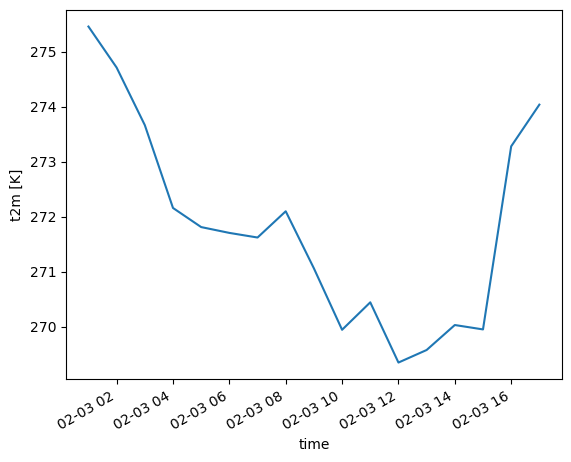
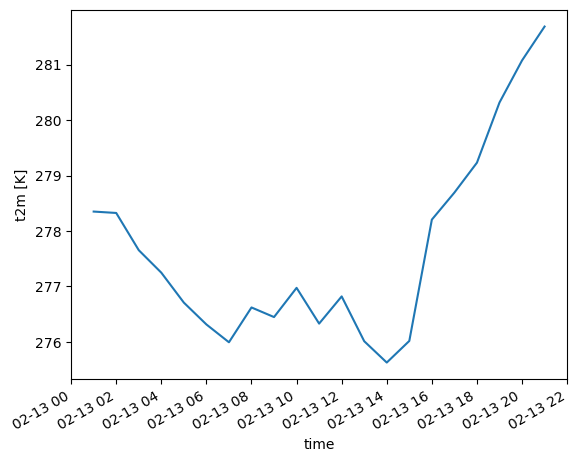
deploy: 009c17c1173d75e0b852d2303bde64c4333e6950

diff --git a/searchindex.js b/searchindex.js
@@ -1,1 +1,1 @@
-Search.setIndex({docnames:["README","notebooks/case_studies/ARG_Weather","notebooks/case_studies/HRRR","notebooks/foundations/kerchunk_basics","notebooks/foundations/kerchunk_multi_file"],envversion:{"sphinx.domains.c":2,"sphinx.domains.changeset":1,"sphinx.domains.citation":1,"sphinx.domains.cpp":5,"sphinx.domains.index":1,"sphinx.domains.javascript":2,"sphinx.domains.math":2,"sphinx.domains.python":3,"sphinx.domains.rst":2,"sphinx.domains.std":2,"sphinx.ext.intersphinx":1,sphinx:56},filenames:["README.md","notebooks/case_studies/ARG_Weather.ipynb","notebooks/case_studies/HRRR.ipynb","notebooks/foundations/kerchunk_basics.ipynb","notebooks/foundations/kerchunk_multi_file.ipynb"],objects:{},objnames:{},objtypes:{},terms:{"0":[1,2,4],"00":[1,2],"01":[1,2,3],"02":2,"03":2,"04":2,"05":2,"06":2,"09":2,"0x7f5dc459f0d0":2,"0x7f5dc45e6170":2,"0x7f6eecb27250":3,"1":[1,2,4],"10":[1,2],"100":[2,3],"11":2,"12":[1,2],"13":2,"13km":2,"14":2,"15":2,"16":[2,3],"17":2,"18":2,"2":[1,2],"20":2,"2022":1,"2023":1,"20230203":2,"2060":[3,4],"21":2,"24":2,"25":2,"26":[1,2,3],"27":2,"29":2,"3":2,"30":2,"300":[1,4],"31":[1,2],"32":2,"35":2,"37":2,"38":2,"3km":2,"4":2,"41":2,"42":2,"43":2,"44":2,"45":[1,2],"47":2,"49":2,"4km":1,"5":2,"500":[1,2],"51":2,"52":2,"53":2,"55":2,"56":2,"57":2,"59":2,"5kb":3,"6":2,"60":[3,4],"65":2,"7":2,"71":2,"72":1,"76":2,"8":2,"82":2,"83":2,"87":2,"88":2,"8mb":3,"9":2,"93":2,"94":2,"98":2,"byte":[0,3],"case":3,"class":4,"default":4,"do":[1,4],"final":4,"function":[1,4],"import":0,"meteorol\u00f3gico":1,"new":[0,4],"public":[3,4],"return":[1,2,4],"short":3,"true":[1,2,3,4],"while":3,As:3,For:[0,1],IS:4,If:[0,1],In:[0,1,3,4],One:2,The:[0,1,2,3,4],These:[0,3],To:[1,2],_:2,_messag:2,abl:0,about:3,abov:1,access:[0,1,2,3,4],across:[1,4],act:4,activ:0,ad:[0,2,4],add:0,addit:3,adopt:1,afilt:2,after:[0,4],agenc:1,ak:[3,4],alaska:[3,4],all:[0,1,2,4],allow:[0,2],along:[1,3,4],also:3,altern:[0,1,4],amount:1,an:[0,1,2,3,4],analysi:[0,1,2],ani:[3,4],anon:[1,2,3,4],anoth:2,anyon:4,anywher:3,api:3,append:[0,1,2,4],ar5:[3,4],ar:[0,1,2,3,4],archiv:[0,2,4],arco:[0,1,2],arg:1,arg_combin:1,argentina:1,argument:[2,3,4],assimil:2,atmospher:[1,2],avail:[0,2,4],avoid:3,aw:[1,2,3,4],axi:4,back:4,backend:0,backend_kwarg:[2,3,4],base:4,basic:[1,2,4],bdp:2,becaus:4,been:1,befor:1,being:[0,1],below:3,benefit:0,between:3,binari:2,block:[1,3,4],book:0,borrow:2,breakdown:1,broken:0,bucket:[3,4],bui:3,build:4,built:4,cach:3,call:4,can:[0,1,2,3],ccsm:[3,4],cd:0,cell:[0,1,2,3],center:1,chang:0,chapter:0,check:1,choos:4,chunk:[0,2,3],click:0,climat:[3,4],clone:0,cloud:[0,1,2,3,4],code:[0,1],cog:0,collect:[0,2,3,4],com:0,combin:0,combined_kerchunk:4,combined_refer:4,commun:1,complet:0,compress:[0,3],comput:0,concat_dim:[1,2,4],concaten:[1,4],concept:[1,2,3,4],conda:0,confus:1,connect:3,consider:1,consolid:[1,2,3,4],contain:2,content:[0,3],contribut:0,conu:2,convect:2,coordin:2,copi:[0,2,4],core:[1,2],corner:0,could:[0,1,2,3,4],countri:1,cover:[0,1,2,4],creat:[0,3],creator:0,credenti:3,current:0,dai:[2,4],daili:[1,3,4],dask:[0,1,4],data:[0,1,2,3],dataset:0,date:2,datetim:2,days_avail:2,de:1,def:[1,2,4],default_cache_typ:[1,3,4],default_fill_cach:[1,3,4],definit:3,demonstr:[0,3],describ:0,det:1,detail:[0,1,2,3,4],determinist:1,develop:0,dict:[1,2,3,4],dictionari:[1,3,4],dimens:[1,4],direct:1,directori:[0,1,4],disk:[1,3,4],dive:0,doc:[0,3],document:0,doe:2,doesn:4,don:3,download:3,downscal:3,ds:[1,2,3,4],dt:2,dump:[1,2,3,4],durant:0,each:[0,1,2,4],earth:1,easier:2,east:4,effici:[2,3],either:0,els:4,enabl:0,encod:[1,2,3,4],engin:[1,2,3,4],enhanc:2,ensur:[2,4],enter:0,enumer:2,env:0,environ:0,etc:1,even:[0,4],everi:2,ex:4,examin:[2,3],exampl:[0,1,2,3,4],execut:0,expect:4,explicit:4,extract:[0,3],f:[0,1,2,3,4],fals:[1,2,3,4],featur:[3,4],few:[3,4],fil:[1,4],file:0,file_pattern:1,file_url:2,filelist:[1,2,4],filenam:4,files_path:[1,4],filesystem:[1,2,3,4],filesytem:4,filter:2,first:[0,1,3,4],fit:0,fname:[1,4],fo:[1,2,3,4],follow:[0,1,3],form:2,format:[0,1,2,3],fortun:1,found:[1,3,4],foundat:1,from:[0,1,2,3],fs:[1,2,3,4],fs_read:[1,2,4],fs_write:[1,2,4],fsspec:[1,2],further:2,gen_json:2,gener:[0,1,2],generate_json_refer:[1,4],get:[0,2,4],get_mapp:[1,2,3,4],gist:2,git:0,github:0,give:3,given:4,glob:[1,2,4],good:[1,4],grab:1,grib2:0,grib:2,grid:2,gritti:0,h5chunk:[1,3,4],h5netcdf:1,h:2,ha:1,had:4,hagen:0,happen:0,happili:2,have:[0,3],hdf5:[0,2,3],hdf:[1,3,4],heavili:2,heightaboveground:2,help:3,here:[1,2,3],hour:1,hourli:[1,2],how:[0,1,2,3,4],howev:[2,4],hrrr_combin:2,http:0,huge:1,humid:1,i:2,icon:0,idea:0,identical_dim:[1,2,4],includ:0,indic:1,individu:[1,2,4],inf:3,infil:[1,4],inform:[0,2,3,4],initi:[1,2,4],inline_threshold:[1,2,3,4],input:3,inspir:0,instal:0,instead:[0,4],intak:[1,2],intend:[3,4],interact:0,interest:0,interp_level:4,interv:1,introduct:[1,2,3,4],io:[1,2,4],isel:[1,4],issu:0,iter:[1,4],json:[0,3],json_dir:2,jupyt:0,jupyterlab:0,just:4,keep:[3,4],kerchunk_bas:1,km:2,know:[0,1],kwarg:1,lab:[0,1],larg:3,later:[1,4],latest:2,latitud:2,launch:0,lead:1,learn:[1,2,3,4],legaci:[1,2],len:4,level:[1,2],librari:[0,3,4],like:0,line2d:2,line:[1,2],live:[0,2],ll:0,local:[0,1,2,3,4],longer:4,longitud:2,loop:4,lower:3,m:[1,2,4],magnitud:1,mai:[3,4],make:2,make_json_nam:2,mani:[0,1,2,3],map:[2,3,4],mapper:4,marsh:2,martin:0,match:4,materi:0,matplotlib:[2,3],maximum:1,memori:[1,3,4],messag:2,message_numb:2,metadata:3,meteorolog:2,method:[1,3,4],min:2,minut:[1,2,3,4],mode:[1,4],model:[1,2],moment:0,more:[0,1],most:1,mous:0,move:0,much:[0,1,3],multi:[0,1,2],multi_kerchunk:[1,2,4],multipl:[1,2,4],multizarrtozarr:[1,2,4],mzz:[1,2,4],nacion:1,name:[2,3,4],nation:2,navig:0,nc:[1,3,4],neccassari:2,necessari:4,need:[0,1,3,4],neighbor:1,netcdf3:0,netcdf4:[0,3],netcdf:2,newli:0,next:[1,2,3],nitti:0,note:[0,1,2,3],notebook:[1,2,3,4],now:[0,4],object:[2,4],off:4,one:[1,2],onli:[1,3,4],open:[0,1,2,3],open_dataset:[1,2,3,4],oper:1,optim:[0,1,2],option:[2,3],origin:[3,4],our:[2,3,4],out:[1,2,3],out_file_nam:2,outf:[1,4],output:[0,1,2,3],output_dir:[1,4],output_fil:[1,4],output_fnam:[1,2,4],over:[2,4],page:0,parallel:[0,2,4],parquet:0,pass:[1,2,3,4],path:2,pd:2,per:2,period:2,peter:2,piec:4,pleas:[0,1],plot:1,point:[1,3,4],possibl:0,pr:0,precipit:1,predict:1,prefix:[1,2,4],prepend:[1,4],present:0,press:0,previou:4,primari:[0,2],print:4,process:[0,3,4],product:3,program:0,progress:4,project:0,projectpythia:0,proven:3,provid:2,pythia:0,python:3,quadmesh:[2,3],radar:2,rang:[0,3],raphael:0,rapidli:0,rb:[1,4],rcp85:[3,4],read:[0,1,2,3,4],readi:[0,2],real:2,rechunk:4,recip:4,recommend:[1,2,4],record:[1,2,4],reduc:[1,2],refer:0,reference_json:2,refernec:4,region:1,registri:2,rel:1,releas:[0,2],remot:[1,2,3,4],remote_opt:[1,2,3,4],remote_protocol:[1,2,3,4],repeat:4,replac:4,repositori:0,repr:1,requir:[1,2,4],resolv:2,result:4,retriev:[2,4],reus:4,right:0,rocket:0,run:4,s3:[1,2,3,4],s3f:[1,3,4],s3filesystem:1,s:[1,3],save:[1,3,4],scan:3,scan_grib:2,schedul:0,scienc:1,scientif:1,se:[3,4],section:[1,2,3],see:[0,1,3],select:[0,1,2,4],separ:4,servicio:1,set:[0,3,4],share:[1,2,4],shift:0,ship:0,should:0,similar:[1,2,4],simpl:4,simplest:0,simpli:0,simplifi:4,sinc:4,singl:[0,2,4],single_file_kerchunk:3,singlehdf5tozarr:[1,3,4],size:3,skip_instance_cach:[1,2,3,4],slice:[1,3],smn:1,snow:4,so:[1,2,3,4],some:[0,1,4],sort:[1,2,4],sourc:0,south:4,southern:4,spatial:1,spec:[0,3],specif:[0,1,4],specifi:[3,4],specifii:1,speed:[0,1,2],speedup:4,split:[1,2,4],start:[0,4],step:[1,2,3,4],storag:[0,1],storage_opt:2,store:[3,4],str:[1,4],strategi:3,strictli:4,string:[1,4],strip:[1,4],summari:0,suppli:4,support:[0,1,2],sure:0,system:[2,3,4],t00z:2,t01z:2,t02z:2,t03z:2,t04z:2,t05z:2,t06z:2,t07z:2,t08z:2,t09z:2,t10z:2,t11z:2,t12z:2,t13z:2,t14z:2,t15z:2,t16z:2,t2:1,t2m:2,t:[3,4],tack:4,tell:1,temperatur:[1,2],temporari:4,tend:3,thei:[0,1,3,4],them:[0,2,4],thi:[0,1,2,3],those:[3,4],through:[0,1,3,4],thu:2,tiff:0,time:[2,3,4],tmax:3,too:3,top:0,tqdm:[1,2,4],translat:[1,2,3,4],tslb:1,tutori:[3,4],twice:1,two:0,type:4,typeoflevel:2,typic:[3,4],u:[1,4],ujson:[1,2,3,4],uncom:[1,2],underli:3,uniqu:2,univers:1,until:0,up:[0,1,2],updat:2,url:[1,3,4],us:[0,3],usag:3,utc:1,valid_tim:2,vari:4,variabl:[1,4],veri:3,via:[0,2],view:0,virtual:[0,3,4],visual:[1,2,4],w:2,wa:0,wai:[0,4],want:3,water:2,wb:[1,2,3,4],we:[0,1,2,3],weather:2,well:[0,1,3,4],were:[0,1,2,3,4],what:[0,1],when:[1,2,3],which:[0,1,2],whole:3,wildcard:[1,4],wind:1,within:[1,2],without:[3,4],work:[0,4],workflow:[0,4],worri:3,would:0,wrf:[1,3,4],wrfdetar_01h_20221231_00_072:1,wrfds_2060:3,wrfsfcf01:2,write:[0,3],written:3,x:1,xarrai:[0,1,2,3],xlat:4,xlong:4,xr:[1,2,3,4],y:1,yml:0,you:[0,1,3],zarr:[0,1,2,3,4]},titles:["Kerchunk Cookbook","Kerchunk and NetCDF/HDF5:  A Case Study using the Argentinian High Resolution Weather Forecast Dataset","Kerchunk and GRIB2:  A Case Study using NOAA\u2019s High-Resolution Rapid Refresh (HRRR) Dataset","Kerchunk Basics","Multi-File Datasets with Kerchunk"],titleterms:{"1":0,"2":0,"365":4,"7":4,"case":[0,1,2],"import":[1,2,3,4],"try":4,A:[1,2],As:4,If:4,To:4,about:[1,2],addit:0,argentinian:1,author:0,basic:3,befor:4,below:4,binder:0,can:4,cell:4,check:4,climt:4,code:4,combin:[1,2,4],contributor:0,cookbook:0,creat:[1,2,4],data:4,dataset:[1,2,3,4],defin:[3,4],downscal:4,everi:4,examin:[1,4],file:[1,2,3,4],file_pattern:4,forecast:1,foundat:0,from:4,fsspec:[3,4],futur:[0,4],gener:4,go:4,grib2:2,have:4,hdf5:1,here:4,high:[1,2],hrrr:2,index:[1,4],indici:2,input:[1,2,4],iter:2,json:[1,2,4],kerchunk:[0,1,2,3,4],kwarg:[3,4],like:4,list:[1,2,4],load:[1,2,3],look:4,machin:0,map:1,motiv:[0,1,2],multi:4,netcdf:[1,3,4],next:4,noaa:2,note:4,notebook:0,one:4,open:4,option:[1,4],output:4,overview:[1,2,3,4],own:0,pars:3,path:4,pattern:4,plot:[2,3,4],prerequisit:[1,2,3,4],quick:4,rapid:2,reduc:4,refer:[1,2,3,4],refresh:2,resolut:[1,2],run:0,s:[2,4],section:[0,4],seri:1,should:4,singl:[1,3],slice:[2,4],snippet:4,speed:4,speedup:1,structur:0,studi:[0,1,2],thi:4,through:2,time:1,uncom:4,up:4,us:[1,2,4],view:4,want:4,we:4,weather:1,week:4,which:4,wishlist:0,worth:4,write:[1,2,4],xarrai:4,year:4,you:4,your:0}})
+Search.setIndex({docnames:["README","notebooks/case_studies/ARG_Weather","notebooks/case_studies/HRRR","notebooks/foundations/kerchunk_basics","notebooks/foundations/kerchunk_multi_file"],envversion:{"sphinx.domains.c":2,"sphinx.domains.changeset":1,"sphinx.domains.citation":1,"sphinx.domains.cpp":5,"sphinx.domains.index":1,"sphinx.domains.javascript":2,"sphinx.domains.math":2,"sphinx.domains.python":3,"sphinx.domains.rst":2,"sphinx.domains.std":2,"sphinx.ext.intersphinx":1,sphinx:56},filenames:["README.md","notebooks/case_studies/ARG_Weather.ipynb","notebooks/case_studies/HRRR.ipynb","notebooks/foundations/kerchunk_basics.ipynb","notebooks/foundations/kerchunk_multi_file.ipynb"],objects:{},objnames:{},objtypes:{},terms:{"0":[1,2,4],"00":[1,2],"01":[1,2,3],"02":2,"03":2,"04":2,"05":2,"07":2,"09":2,"0x7f030676fee0":2,"0x7f030698fb80":2,"0x7f922b6af3a0":3,"1":[1,2,4],"10":[1,2],"100":[2,3],"11":2,"12":[1,2],"13":2,"13km":2,"14":2,"15":2,"16":[2,3],"17":2,"18":2,"19":2,"2":[1,2],"20":2,"2022":1,"2023":1,"20230213":2,"2060":[3,4],"21":2,"22":2,"23":2,"24":2,"25":2,"26":[1,2,3],"27":2,"29":2,"3":2,"300":[1,4],"31":[1,2],"33":2,"34":2,"36":2,"37":2,"38":2,"39":2,"3km":2,"4":2,"43":2,"44":2,"45":[1,2],"48":2,"4km":1,"5":2,"50":2,"500":[1,2],"51":2,"52":2,"55":2,"56":2,"57":2,"58":2,"5kb":3,"6":2,"60":[3,4],"61":2,"62":2,"66":2,"67":2,"69":2,"7":2,"71":2,"72":1,"76":2,"8":2,"81":2,"86":2,"8mb":3,"9":2,"90":2,"91":2,"92":2,"95":2,"96":2,"97":2,"byte":[0,3],"case":3,"class":4,"default":4,"do":[1,4],"final":4,"function":[1,2,4],"import":0,"meteorol\u00f3gico":1,"new":[0,4],"public":[3,4],"return":[1,2,4],"short":3,"true":[1,2,3,4],"while":3,As:3,For:[0,1],IS:4,If:[0,1],In:[0,1,3,4],One:2,The:[0,1,2,3,4],These:[0,3],To:[1,2],_:2,_messag:2,abl:0,about:3,abov:1,access:[0,1,2,3,4],across:[1,4],act:4,activ:0,ad:[0,2,4],add:0,addit:3,adopt:1,afilt:2,after:[0,4],agenc:1,ak:[3,4],alaska:[3,4],all:[0,1,2,4],allow:[0,2],along:[1,3,4],also:[2,3],altern:[0,1,4],although:1,amount:1,an:[0,1,2,3,4],analysi:[0,1,2],ani:[3,4],anon:[1,2,3,4],anoth:2,anyon:4,anywher:3,api:3,append:[0,1,2,4],ar5:[3,4],ar:[0,1,2,3,4],archiv:[0,2,4],arco:[0,1,2],arg:1,arg_combin:1,argentina:1,argument:[2,3,4],assimil:2,atmospher:[1,2],avail:[0,2,4],avoid:3,aw:[1,2,3,4],axi:4,back:4,backend:0,backend_kwarg:[2,3,4],base:4,basic:[1,2,4],bdp:2,becaus:4,been:1,befor:1,being:[0,1],below:3,benefit:0,between:3,binari:2,block:[1,3,4],book:0,borrow:2,breakdown:1,broken:0,bucket:[3,4],bui:3,build:4,built:4,cach:3,call:4,can:[0,1,2,3],ccsm:[3,4],cd:0,cell:[0,1,2,3],center:1,certain:2,chang:0,chapter:0,check:1,choos:4,chunk:[0,2,3],click:0,climat:[3,4],clone:0,cloud:[0,1,2,3,4],code:[0,1],cog:0,collect:[0,2,3,4],com:0,combin:0,combined_kerchunk:4,combined_refer:4,commun:1,compat:2,complet:0,compon:2,compress:[0,3],comput:0,concat_dim:[1,2,4],concaten:[1,4],concept:[1,2,3,4],conda:0,confus:1,connect:3,consider:1,consolid:[1,2,3,4],contain:2,content:[0,3],contribut:0,conu:2,convect:2,coordin:2,copi:[0,2,4],core:[1,2],corner:0,could:[0,1,2,3,4],countri:1,cover:[0,1,2,4],creat:[0,3],creator:0,credenti:3,current:0,dai:[2,4],daili:[1,3,4],dask:[0,1,4],data:[0,1,2,3],dataset:0,date:2,datetim:2,days_avail:2,de:1,def:[1,2,4],default_cache_typ:[1,3,4],default_fill_cach:[1,3,4],definit:3,demonstr:[0,3],describ:0,det:1,detail:[0,1,2,3,4],determinist:1,develop:0,dict:[1,2,3,4],dictionari:[1,3,4],dimens:[1,2,4],direct:1,directori:[0,1,4],disk:[1,3,4],dive:0,doc:[0,3],document:0,doe:2,doesn:4,don:3,download:3,downscal:3,ds:[1,2,3,4],dt:2,dump:[1,2,3,4],durant:0,each:[0,1,2,4],earth:1,easier:2,east:4,effici:[2,3],either:0,els:4,enabl:0,encod:[1,2,3,4],engin:[1,2,3,4],enhanc:2,ensur:[2,4],enter:0,enumer:2,env:0,environ:0,etc:1,even:[0,4],everi:2,ex:4,examin:[2,3],exampl:[0,1,2,3,4],execut:0,expect:4,explicit:4,extract:[0,3],f:[0,1,2,3,4],fals:[1,2,3,4],featur:[3,4],few:[3,4],fil:[1,4],file:0,file_pattern:1,file_url:2,filelist:[1,2,4],filenam:4,files_path:[1,4],filesystem:[1,2,3,4],filesytem:4,filter:2,first:[0,1,2,3,4],fit:0,fname:[1,4],fo:[1,2,3,4],follow:[0,1,3],form:2,format:[0,1,2,3],fortun:1,found:[1,3,4],foundat:1,four:2,from:[0,1,2,3],fs:[1,2,3,4],fs_read:[1,2,4],fs_write:[1,2,4],fsspec:[1,2],further:2,gen_json:2,gener:[0,1,2],generate_json_refer:[1,4],get:[0,2,4],get_mapp:[1,2,3,4],gist:2,git:0,github:0,give:3,given:4,glob:[1,2,4],good:[1,4],grab:1,grib2:0,grib:2,grid:2,gritti:0,h5chunk:[1,3,4],h5netcdf:1,h:2,ha:1,had:4,hagen:0,happen:0,happili:2,have:[0,1,3],hdf5:[0,2,3],hdf:[1,3,4],heavili:2,heightaboveground:2,help:3,here:[1,2,3],hour:1,hourli:[1,2],how:[0,1,2,3,4],howev:[2,4],hrrr_combin:2,http:0,huge:1,humid:1,i:2,icon:0,idea:0,ident:2,identical_dim:[1,2,4],includ:0,indic:[1,2],individu:[1,2,4],inf:3,infil:[1,4],inform:[0,2,3,4],initi:[1,2,4],inline_threshold:[1,2,3,4],input:3,inspir:0,instal:0,instead:[0,4],intak:[1,2],intend:[3,4],interact:0,interest:[0,2],interp_level:4,interv:1,introduct:[1,2,3,4],io:[1,2,4],isel:[1,4],issu:0,iter:[1,4],json:[0,3],json_dir:2,jupyt:0,jupyterlab:0,just:4,keep:[3,4],kerchunk_bas:1,km:2,know:[0,1,2],kwarg:1,lab:[0,1],larg:3,later:[1,4],latest:2,latitud:2,launch:0,lead:1,learn:[1,2,3,4],legaci:[1,2],len:4,level:[1,2],librari:[0,3,4],like:0,line2d:2,line:[1,2],live:[0,2],ll:0,local:[0,1,2,3,4],logic:1,longer:4,longitud:2,loop:[2,4],lower:3,m:[1,2,4],magnitud:1,mai:[3,4],make:2,make_json_nam:2,mani:[0,1,2,3],map:[2,3,4],mapper:4,marsh:2,martin:0,match:4,materi:0,matplotlib:[2,3],maximum:1,measur:2,memori:[1,3,4],messag:2,message_numb:2,metadata:3,meteorolog:2,method:[1,3,4],min:2,minut:[1,2,3,4],mode:[1,4],model:[1,2],moment:0,more:[0,1],most:1,mous:0,move:0,much:[0,1,3],multi:[0,1,2],multi_kerchunk:[1,2,4],multipl:[1,2,4],multizarrtozarr:[1,2,4],mutipl:2,mzz:[1,2,4],nacion:1,name:[2,3,4],nation:2,navig:0,nc:[1,3,4],neccassari:2,necessari:4,necessarili:2,need:[0,1,3,4],neighbor:1,netcdf3:0,netcdf4:[0,1,3],netcdf:2,newli:0,next:[1,2,3],nitti:0,note:[0,1,2,3],notebook:[1,2,3,4],now:[0,1,4],number:1,object:[2,4],off:4,one:[1,2],onli:[1,2,3,4],open:[0,1,2,3],open_dataset:[1,2,3,4],oper:1,optim:[0,1,2],option:[1,2,3],origin:[3,4],other:1,our:[2,3,4],out:[1,2,3],out_file_nam:2,outf:[1,4],output:[0,1,2,3],output_dir:[1,4],output_fil:[1,4],output_fnam:[1,2,4],over:[1,2,4],page:0,parallel:[0,2,4],parquet:0,pass:[1,2,3,4],path:2,pd:2,per:2,period:2,peter:2,piec:4,pleas:[0,1],plot:1,point:[1,3,4],possibl:0,pr:0,precipit:1,predict:1,prefix:[1,2,4],prepend:[1,4],present:0,press:0,previou:4,primari:[0,2],principl:1,print:4,process:[0,3,4],product:3,program:0,progress:4,project:0,projectpythia:0,proven:3,provid:2,pure:1,pythia:0,python:3,quadmesh:[2,3],radar:2,rang:[0,3],raphael:0,rapidli:0,rb:[1,4],rcp85:[3,4],read:[0,1,2,3,4],readi:[0,2],real:2,rechunk:4,recip:4,recommend:[1,2,4],record:[1,2,4],reduc:[1,2],refer:0,reference_json:2,refernec:4,region:1,registri:2,rel:1,releas:[0,2],remot:[1,2,3,4],remote_opt:[1,2,3,4],remote_protocol:[1,2,3,4],repeat:4,replac:4,repositori:0,repr:1,requir:[1,2,4],resolv:2,result:4,retriev:[2,4],reus:4,right:0,rocket:0,run:4,s3:[1,2,3,4],s3f:[1,3,4],s3filesystem:1,s:[1,3],save:[1,3,4],scan:[1,3],scan_grib:2,schedul:0,scienc:1,scientif:1,se:[3,4],section:[1,2,3],see:[0,1,2,3],select:[0,1,2,4],separ:[2,4],servicio:1,set:[0,1,2,3,4],share:[1,2,4],shift:0,ship:0,should:0,similar:[1,2,4],simpl:4,simplest:0,simpli:0,simplifi:4,sinc:[2,4],singl:[0,2,4],single_file_kerchunk:3,singlehdf5tozarr:[1,3,4],size:3,skip_instance_cach:[1,2,3,4],slice:[1,3],smn:1,snow:4,so:[1,2,3,4],some:[0,1,2,4],sort:[1,2,4],sourc:0,south:4,southern:4,spatial:1,spec:[0,3],specif:[0,1,4],specifi:[3,4],specifii:1,speed:[0,1,2],speedup:[1,4],split:[1,2,4],start:[0,4],step:[1,2,3,4],storag:[0,1],storage_opt:2,store:[3,4],storeg:1,str:[1,4],strategi:3,strictli:4,string:[1,4],strip:[1,4],summari:0,suppli:4,support:[0,1,2],sure:0,system:[2,3,4],t00z:2,t01z:2,t02z:2,t03z:2,t04z:2,t05z:2,t06z:2,t07z:2,t08z:2,t09z:2,t10z:2,t11z:2,t12z:2,t13z:2,t14z:2,t15z:2,t16z:2,t17z:2,t18z:2,t19z:2,t20z:2,t2:1,t2m:2,t:[3,4],tack:4,tell:1,temperatur:[1,2],temporari:4,tend:3,thei:[0,1,2,3,4],them:[0,1,2,4],thi:[0,1,2,3],those:[3,4],through:[0,1,3,4],thu:2,tiff:0,time:[2,3,4],tmax:3,too:3,top:0,tqdm:[1,2,4],translat:[1,2,3,4],tslb:1,tutori:[3,4],twice:1,two:0,type:[2,4],typeoflevel:2,typic:[3,4],u:[1,4],ujson:[1,2,3,4],uncom:[1,2],underli:3,uniqu:2,univers:1,until:0,up:[0,1,2],updat:2,url:[1,3,4],us:[0,3],usag:3,utc:1,valid_tim:2,vari:4,variabl:[1,2,4],veri:3,via:[0,2],view:[0,1],virtual:[0,3,4],visual:[1,2,4],w:2,wa:0,wai:[0,4],want:3,water:2,wb:[1,2,3,4],we:[0,1,2,3],weather:2,well:[0,1,3,4],were:[0,1,2,3,4],what:[0,1],when:[1,2,3],which:[0,1,2],whole:3,wildcard:[1,4],wind:1,within:[1,2],without:[3,4],work:[0,4],workflow:[0,4],worri:3,would:0,wrf:[1,3,4],wrfdetar_01h_20221231_00_072:1,wrfds_2060:3,wrfsfcf01:2,write:[0,3],written:[1,3],x:1,xarrai:[0,1,2,3],xlat:4,xlong:4,xr:[1,2,3,4],y:1,yml:0,you:[0,1,3],zarr:[0,1,2,3,4]},titles:["Kerchunk Cookbook","Kerchunk and NetCDF/HDF5:  A Case Study using the Argentinian High Resolution Weather Forecast Dataset","Kerchunk and GRIB2:  A Case Study using NOAA\u2019s High-Resolution Rapid Refresh (HRRR) Dataset","Kerchunk Basics","Multi-File Datasets with Kerchunk"],titleterms:{"1":0,"2":0,"365":4,"7":4,"case":[0,1,2],"import":[1,2,3,4],"try":4,A:[1,2],As:4,If:4,To:4,about:[1,2],addit:0,argentinian:1,author:0,basic:3,befor:4,below:4,binder:0,can:4,cell:4,check:4,climt:4,code:4,combin:[1,2,4],contributor:0,cookbook:0,creat:[1,2,4],data:4,dataset:[1,2,3,4],defin:[3,4],downscal:4,everi:4,examin:[1,4],file:[1,2,3,4],file_pattern:4,forecast:1,foundat:0,from:4,fsspec:[3,4],futur:[0,4],gener:4,go:4,grib2:2,have:4,hdf5:1,here:4,high:[1,2],hrrr:2,index:[1,4],indici:2,input:[1,2,4],iter:2,json:[1,2,4],kerchunk:[0,1,2,3,4],kwarg:[3,4],like:4,list:[1,2,4],load:[1,2,3],look:4,machin:0,map:1,motiv:[0,1,2],multi:4,netcdf:[1,3,4],next:4,noaa:2,note:4,notebook:0,one:4,open:4,option:4,output:4,overview:[1,2,3,4],own:0,pars:3,path:4,pattern:4,plot:[2,3,4],prerequisit:[1,2,3,4],quick:4,rapid:2,reduc:4,refer:[1,2,3,4],refresh:2,resolut:[1,2],run:0,s:[2,4],section:[0,4],seri:1,should:4,singl:[1,3],slice:[2,4],snippet:4,speed:4,structur:0,studi:[0,1,2],thi:4,through:2,time:1,uncom:4,up:4,us:[1,2,4],view:4,want:4,we:4,weather:1,week:4,which:4,wishlist:0,worth:4,write:[1,2,4],xarrai:4,year:4,you:4,your:0}})

diff --git a/notebooks/case_studies/HRRR.html b/notebooks/case_studies/HRRR.html
@@ -540,23 +540,27 @@ Next we are using <code class="docutils literal notranslate"><span class="pre">f
 </div>
 </div>
 <div class="cell_output docutils container">
-<div class="output text_plain highlight-myst-ansi notranslate"><div class="highlight"><pre><span></span>[&#39;s3://noaa-hrrr-bdp-pds/hrrr.20230203/conus/hrrr.t00z.wrfsfcf01.grib2&#39;,
- &#39;s3://noaa-hrrr-bdp-pds/hrrr.20230203/conus/hrrr.t01z.wrfsfcf01.grib2&#39;,
- &#39;s3://noaa-hrrr-bdp-pds/hrrr.20230203/conus/hrrr.t02z.wrfsfcf01.grib2&#39;,
- &#39;s3://noaa-hrrr-bdp-pds/hrrr.20230203/conus/hrrr.t03z.wrfsfcf01.grib2&#39;,
- &#39;s3://noaa-hrrr-bdp-pds/hrrr.20230203/conus/hrrr.t04z.wrfsfcf01.grib2&#39;,
- &#39;s3://noaa-hrrr-bdp-pds/hrrr.20230203/conus/hrrr.t05z.wrfsfcf01.grib2&#39;,
- &#39;s3://noaa-hrrr-bdp-pds/hrrr.20230203/conus/hrrr.t06z.wrfsfcf01.grib2&#39;,
- &#39;s3://noaa-hrrr-bdp-pds/hrrr.20230203/conus/hrrr.t07z.wrfsfcf01.grib2&#39;,
- &#39;s3://noaa-hrrr-bdp-pds/hrrr.20230203/conus/hrrr.t08z.wrfsfcf01.grib2&#39;,
- &#39;s3://noaa-hrrr-bdp-pds/hrrr.20230203/conus/hrrr.t09z.wrfsfcf01.grib2&#39;,
- &#39;s3://noaa-hrrr-bdp-pds/hrrr.20230203/conus/hrrr.t10z.wrfsfcf01.grib2&#39;,
- &#39;s3://noaa-hrrr-bdp-pds/hrrr.20230203/conus/hrrr.t11z.wrfsfcf01.grib2&#39;,
- &#39;s3://noaa-hrrr-bdp-pds/hrrr.20230203/conus/hrrr.t12z.wrfsfcf01.grib2&#39;,
- &#39;s3://noaa-hrrr-bdp-pds/hrrr.20230203/conus/hrrr.t13z.wrfsfcf01.grib2&#39;,
- &#39;s3://noaa-hrrr-bdp-pds/hrrr.20230203/conus/hrrr.t14z.wrfsfcf01.grib2&#39;,
- &#39;s3://noaa-hrrr-bdp-pds/hrrr.20230203/conus/hrrr.t15z.wrfsfcf01.grib2&#39;,
- &#39;s3://noaa-hrrr-bdp-pds/hrrr.20230203/conus/hrrr.t16z.wrfsfcf01.grib2&#39;]
+<div class="output text_plain highlight-myst-ansi notranslate"><div class="highlight"><pre><span></span>[&#39;s3://noaa-hrrr-bdp-pds/hrrr.20230213/conus/hrrr.t00z.wrfsfcf01.grib2&#39;,
+ &#39;s3://noaa-hrrr-bdp-pds/hrrr.20230213/conus/hrrr.t01z.wrfsfcf01.grib2&#39;,
+ &#39;s3://noaa-hrrr-bdp-pds/hrrr.20230213/conus/hrrr.t02z.wrfsfcf01.grib2&#39;,
+ &#39;s3://noaa-hrrr-bdp-pds/hrrr.20230213/conus/hrrr.t03z.wrfsfcf01.grib2&#39;,
+ &#39;s3://noaa-hrrr-bdp-pds/hrrr.20230213/conus/hrrr.t04z.wrfsfcf01.grib2&#39;,
+ &#39;s3://noaa-hrrr-bdp-pds/hrrr.20230213/conus/hrrr.t05z.wrfsfcf01.grib2&#39;,
+ &#39;s3://noaa-hrrr-bdp-pds/hrrr.20230213/conus/hrrr.t06z.wrfsfcf01.grib2&#39;,
+ &#39;s3://noaa-hrrr-bdp-pds/hrrr.20230213/conus/hrrr.t07z.wrfsfcf01.grib2&#39;,
+ &#39;s3://noaa-hrrr-bdp-pds/hrrr.20230213/conus/hrrr.t08z.wrfsfcf01.grib2&#39;,
+ &#39;s3://noaa-hrrr-bdp-pds/hrrr.20230213/conus/hrrr.t09z.wrfsfcf01.grib2&#39;,
+ &#39;s3://noaa-hrrr-bdp-pds/hrrr.20230213/conus/hrrr.t10z.wrfsfcf01.grib2&#39;,
+ &#39;s3://noaa-hrrr-bdp-pds/hrrr.20230213/conus/hrrr.t11z.wrfsfcf01.grib2&#39;,
+ &#39;s3://noaa-hrrr-bdp-pds/hrrr.20230213/conus/hrrr.t12z.wrfsfcf01.grib2&#39;,
+ &#39;s3://noaa-hrrr-bdp-pds/hrrr.20230213/conus/hrrr.t13z.wrfsfcf01.grib2&#39;,
+ &#39;s3://noaa-hrrr-bdp-pds/hrrr.20230213/conus/hrrr.t14z.wrfsfcf01.grib2&#39;,
+ &#39;s3://noaa-hrrr-bdp-pds/hrrr.20230213/conus/hrrr.t15z.wrfsfcf01.grib2&#39;,
+ &#39;s3://noaa-hrrr-bdp-pds/hrrr.20230213/conus/hrrr.t16z.wrfsfcf01.grib2&#39;,
+ &#39;s3://noaa-hrrr-bdp-pds/hrrr.20230213/conus/hrrr.t17z.wrfsfcf01.grib2&#39;,
+ &#39;s3://noaa-hrrr-bdp-pds/hrrr.20230213/conus/hrrr.t18z.wrfsfcf01.grib2&#39;,
+ &#39;s3://noaa-hrrr-bdp-pds/hrrr.20230213/conus/hrrr.t19z.wrfsfcf01.grib2&#39;,
+ &#39;s3://noaa-hrrr-bdp-pds/hrrr.20230213/conus/hrrr.t20z.wrfsfcf01.grib2&#39;]
 </pre></div>
 </div>
 </div>
@@ -564,6 +568,8 @@ Next we are using <code class="docutils literal notranslate"><span class="pre">f
 </div>
 <div class="section" id="iterate-through-list-of-files-and-create-kerchunk-indicies-as-json-reference-files">
 <h2>Iterate through list of files and create <code class="docutils literal notranslate"><span class="pre">Kerchunk</span></code> indicies as <code class="docutils literal notranslate"><span class="pre">.json</span></code> reference files<a class="headerlink" href="#iterate-through-list-of-files-and-create-kerchunk-indicies-as-json-reference-files" title="Permalink to this headline"><i class="fas fa-link"></i></a></h2>
+<p>Each input GRIB2 file contains mutiple “messages”, each a measure of some variable on a grid, but with grid dimensions not necessarily compatible with one-another. The filter we create in the first line selects only certain types of messages, and indicated that heightAboveGround will be a coordinate of interest.</p>
+<p>We also write a separate JSON for each of the selected message, since these are the basic component data sets (see the loop over <code class="docutils literal notranslate"><span class="pre">out</span></code>).</p>
 <div class="cell docutils container">
 <div class="cell_input docutils container">
 <div class="highlight-ipython3 notranslate"><div class="highlight"><pre><span></span><span class="c1"># Note: scan_grib does not require a filter and will happily create a reference file for each available grib message. However when combining the grib messages using MultiZarrToZarr it is neccassary for the messages to share a coordinate system. Thus to make our lives easier and ensure all reference outputs from scan_grib share a coordinate system we pass a filter argument.</span>
@@ -606,61 +612,73 @@ Next we are using <code class="docutils literal notranslate"><span class="pre">f
 </div>
 </div>
 <div class="cell_output docutils container">
-<div class="output stderr highlight-myst-ansi notranslate"><div class="highlight"><pre><span></span>  0%|          | 0/17 [00:00&lt;?, ?it/s]
+<div class="output stderr highlight-myst-ansi notranslate"><div class="highlight"><pre><span></span>  0%|          | 0/21 [00:00&lt;?, ?it/s]
 </pre></div>
 </div>
-<div class="output stderr highlight-myst-ansi notranslate"><div class="highlight"><pre><span></span>  6%|▌         | 1/17 [00:15&lt;04:05, 15.37s/it]
+<div class="output stderr highlight-myst-ansi notranslate"><div class="highlight"><pre><span></span>  5%|▍         | 1/21 [00:13&lt;04:38, 13.92s/it]
 </pre></div>
 </div>
-<div class="output stderr highlight-myst-ansi notranslate"><div class="highlight"><pre><span></span> 12%|█▏        | 2/17 [00:31&lt;03:52, 15.52s/it]
+<div class="output stderr highlight-myst-ansi notranslate"><div class="highlight"><pre><span></span> 10%|▉         | 2/21 [00:29&lt;04:39, 14.69s/it]
 </pre></div>
 </div>
-<div class="output stderr highlight-myst-ansi notranslate"><div class="highlight"><pre><span></span> 18%|█▊        | 3/17 [00:43&lt;03:20, 14.32s/it]
+<div class="output stderr highlight-myst-ansi notranslate"><div class="highlight"><pre><span></span> 14%|█▍        | 3/21 [00:44&lt;04:29, 14.96s/it]
 </pre></div>
 </div>
-<div class="output stderr highlight-myst-ansi notranslate"><div class="highlight"><pre><span></span> 24%|██▎       | 4/17 [00:57&lt;03:02, 14.06s/it]
+<div class="output stderr highlight-myst-ansi notranslate"><div class="highlight"><pre><span></span> 19%|█▉        | 4/21 [01:01&lt;04:27, 15.71s/it]
 </pre></div>
 </div>
-<div class="output stderr highlight-myst-ansi notranslate"><div class="highlight"><pre><span></span> 29%|██▉       | 5/17 [01:14&lt;03:03, 15.25s/it]
+<div class="output stderr highlight-myst-ansi notranslate"><div class="highlight"><pre><span></span> 24%|██▍       | 5/21 [01:18&lt;04:22, 16.39s/it]
 </pre></div>
 </div>
-<div class="output stderr highlight-myst-ansi notranslate"><div class="highlight"><pre><span></span> 35%|███▌      | 6/17 [01:31&lt;02:51, 15.57s/it]
+<div class="output stderr highlight-myst-ansi notranslate"><div class="highlight"><pre><span></span> 29%|██▊       | 6/21 [01:34&lt;04:00, 16.02s/it]
 </pre></div>
 </div>
-<div class="output stderr highlight-myst-ansi notranslate"><div class="highlight"><pre><span></span> 41%|████      | 7/17 [01:45&lt;02:31, 15.15s/it]
+<div class="output stderr highlight-myst-ansi notranslate"><div class="highlight"><pre><span></span> 33%|███▎      | 7/21 [01:50&lt;03:45, 16.10s/it]
 </pre></div>
 </div>
-<div class="output stderr highlight-myst-ansi notranslate"><div class="highlight"><pre><span></span> 47%|████▋     | 8/17 [02:01&lt;02:20, 15.59s/it]
+<div class="output stderr highlight-myst-ansi notranslate"><div class="highlight"><pre><span></span> 38%|███▊      | 8/21 [02:07&lt;03:31, 16.24s/it]
 </pre></div>
 </div>
-<div class="output stderr highlight-myst-ansi notranslate"><div class="highlight"><pre><span></span> 53%|█████▎    | 9/17 [02:16&lt;02:01, 15.21s/it]
+<div class="output stderr highlight-myst-ansi notranslate"><div class="highlight"><pre><span></span> 43%|████▎     | 9/21 [02:22&lt;03:11, 15.97s/it]
 </pre></div>
 </div>
-<div class="output stderr highlight-myst-ansi notranslate"><div class="highlight"><pre><span></span> 59%|█████▉    | 10/17 [02:30&lt;01:44, 14.98s/it]
+<div class="output stderr highlight-myst-ansi notranslate"><div class="highlight"><pre><span></span> 48%|████▊     | 10/21 [02:36&lt;02:51, 15.55s/it]
 </pre></div>
 </div>
-<div class="output stderr highlight-myst-ansi notranslate"><div class="highlight"><pre><span></span> 65%|██████▍   | 11/17 [02:43&lt;01:26, 14.38s/it]
+<div class="output stderr highlight-myst-ansi notranslate"><div class="highlight"><pre><span></span> 52%|█████▏    | 11/21 [02:52&lt;02:36, 15.66s/it]
 </pre></div>
 </div>
-<div class="output stderr highlight-myst-ansi notranslate"><div class="highlight"><pre><span></span> 71%|███████   | 12/17 [02:56&lt;01:09, 13.83s/it]
+<div class="output stderr highlight-myst-ansi notranslate"><div class="highlight"><pre><span></span> 57%|█████▋    | 12/21 [03:09&lt;02:23, 15.95s/it]
 </pre></div>
 </div>
-<div class="output stderr highlight-myst-ansi notranslate"><div class="highlight"><pre><span></span> 76%|███████▋  | 13/17 [03:10&lt;00:55, 13.87s/it]
+<div class="output stderr highlight-myst-ansi notranslate"><div class="highlight"><pre><span></span> 62%|██████▏   | 13/21 [03:25&lt;02:07, 15.91s/it]
 </pre></div>
 </div>
-<div class="output stderr highlight-myst-ansi notranslate"><div class="highlight"><pre><span></span> 82%|████████▏ | 14/17 [03:25&lt;00:42, 14.16s/it]
+<div class="output stderr highlight-myst-ansi notranslate"><div class="highlight"><pre><span></span> 67%|██████▋   | 14/21 [03:43&lt;01:56, 16.61s/it]
 </pre></div>
 </div>
-<div class="output stderr highlight-myst-ansi notranslate"><div class="highlight"><pre><span></span> 88%|████████▊ | 15/17 [03:38&lt;00:27, 13.94s/it]
+<div class="output stderr highlight-myst-ansi notranslate"><div class="highlight"><pre><span></span> 71%|███████▏  | 15/21 [03:58&lt;01:37, 16.24s/it]
 </pre></div>
 </div>
-<div class="output stderr highlight-myst-ansi notranslate"><div class="highlight"><pre><span></span> 94%|█████████▍| 16/17 [03:52&lt;00:13, 13.88s/it]
+<div class="output stderr highlight-myst-ansi notranslate"><div class="highlight"><pre><span></span> 76%|███████▌  | 16/21 [04:18&lt;01:26, 17.31s/it]
 </pre></div>
 </div>
-<div class="output stderr highlight-myst-ansi notranslate"><div class="highlight"><pre><span></span>100%|██████████| 17/17 [04:06&lt;00:00, 13.93s/it]
+<div class="output stderr highlight-myst-ansi notranslate"><div class="highlight"><pre><span></span> 81%|████████  | 17/21 [04:34&lt;01:07, 16.95s/it]
 </pre></div>
 </div>
-<div class="output stderr highlight-myst-ansi notranslate"><div class="highlight"><pre><span></span>100%|██████████| 17/17 [04:06&lt;00:00, 14.49s/it]
+<div class="output stderr highlight-myst-ansi notranslate"><div class="highlight"><pre><span></span> 86%|████████▌ | 18/21 [04:50&lt;00:50, 16.67s/it]
+</pre></div>
+</div>
+<div class="output stderr highlight-myst-ansi notranslate"><div class="highlight"><pre><span></span> 90%|█████████ | 19/21 [05:07&lt;00:33, 16.66s/it]
+</pre></div>
+</div>
+<div class="output stderr highlight-myst-ansi notranslate"><div class="highlight"><pre><span></span> 95%|█████████▌| 20/21 [05:22&lt;00:16, 16.25s/it]
+</pre></div>
+</div>
+<div class="output stderr highlight-myst-ansi notranslate"><div class="highlight"><pre><span></span>100%|██████████| 21/21 [05:38&lt;00:00, 16.07s/it]
+</pre></div>
+</div>
+<div class="output stderr highlight-myst-ansi notranslate"><div class="highlight"><pre><span></span>100%|██████████| 21/21 [05:38&lt;00:00, 16.12s/it]
 </pre></div>
 </div>
 <div class="output stderr highlight-myst-ansi notranslate"><div class="highlight"><pre><span></span>
@@ -670,6 +688,7 @@ Next we are using <code class="docutils literal notranslate"><span class="pre">f
 </div>
 <div class="section" id="combine-kerchunk-reference-json-files">
 <h3>Combine <code class="docutils literal notranslate"><span class="pre">Kerchunk</span></code> reference <code class="docutils literal notranslate"><span class="pre">.json</span></code> files<a class="headerlink" href="#combine-kerchunk-reference-json-files" title="Permalink to this headline"><i class="fas fa-link"></i></a></h3>
+<p>We know that four coordinates are identical for every one of our component datasets - they are not functions of valid_time.</p>
 <div class="cell docutils container">
 <div class="cell_input docutils container">
 <div class="highlight-ipython3 notranslate"><div class="highlight"><pre><span></span><span class="c1"># Combine individual references into single consolidated reference</span>
@@ -725,7 +744,7 @@ Next we are using <code class="docutils literal notranslate"><span class="pre">f
 </div>
 </div>
 <div class="cell_output docutils container">
-<div class="output text_plain highlight-myst-ansi notranslate"><div class="highlight"><pre><span></span>&lt;matplotlib.collections.QuadMesh at 0x7f5dc45e6170&gt;
+<div class="output text_plain highlight-myst-ansi notranslate"><div class="highlight"><pre><span></span>&lt;matplotlib.collections.QuadMesh at 0x7f030698fb80&gt;
 </pre></div>
 </div>
 <img alt="../../_images/HRRR_22_1.png" src="../../_images/HRRR_22_1.png" />
@@ -738,7 +757,7 @@ Next we are using <code class="docutils literal notranslate"><span class="pre">f
 </div>
 </div>
 <div class="cell_output docutils container">
-<div class="output text_plain highlight-myst-ansi notranslate"><div class="highlight"><pre><span></span>[&lt;matplotlib.lines.Line2D at 0x7f5dc459f0d0&gt;]
+<div class="output text_plain highlight-myst-ansi notranslate"><div class="highlight"><pre><span></span>[&lt;matplotlib.lines.Line2D at 0x7f030676fee0&gt;]
 </pre></div>
 </div>
 <img alt="../../_images/HRRR_23_1.png" src="../../_images/HRRR_23_1.png" />
@@ -759,7 +778,7 @@ Next we are using <code class="docutils literal notranslate"><span class="pre">f
             mode: "python"
         },
         kernelOptions: {
-            kernelName: "python3",
+            name: "python3",
             path: "./notebooks/case_studies"
         },
         predefinedOutput: true
@@ -822,7 +841,7 @@ Next we are using <code class="docutils literal notranslate"><span class="pre">f
         
           By the <a href="https://projectpythia.org/">Project Pythia</a> Community.
         
-          Last updated on 3 February 2023.
+          Last updated on 13 February 2023.
         </p>
       </div>
     </div>

diff --git a/notebooks/case_studies/ARG_Weather.html b/notebooks/case_studies/ARG_Weather.html
@@ -358,13 +358,6 @@ All code in Pythia Cookbooks is licensed under Apache 2.0. All other non-code co
   <a class="reference internal nav-link" href="#create-input-file-list">
    Create Input File List
   </a>
-  <ul class="nav section-nav flex-column">
-   <li class="toc-h3 nav-item toc-entry">
-    <a class="reference internal nav-link" href="#optional-speedup">
-     Optional Speedup
-    </a>
-   </li>
-  </ul>
  </li>
  <li class="toc-h2 nav-item toc-entry">
   <a class="reference internal nav-link" href="#combine-json-kerchunk-reference-files-and-write-a-combined-kerchunk-index">
@@ -457,7 +450,7 @@ All code in Pythia Cookbooks is licensed under Apache 2.0. All other non-code co
 <hr class="docutils" />
 <div class="section" id="motivation">
 <h2>Motivation<a class="headerlink" href="#motivation" title="Permalink to this headline"><i class="fas fa-link"></i></a></h2>
-<p>NetCDF/HDF5 is one of the most universally adopted file formats in earth sciences, with support of much of the community as well as scientific agencies, data centers and university labs. A huge amount of legacy data has been generated in this format. Fortunately, using <code class="docutils literal notranslate"><span class="pre">Kerchunk</span></code>, we can read these datasets as if they were an Analysis-Read Cloud-Optimized (ARCO) format such as <code class="docutils literal notranslate"><span class="pre">Zarr</span></code>.</p>
+<p>NetCDF4/HDF5 is one of the most universally adopted file formats in earth sciences, with support of much of the community as well as scientific agencies, data centers and university labs. A huge amount of legacy data has been generated in this format. Fortunately, using <code class="docutils literal notranslate"><span class="pre">Kerchunk</span></code>, we can read these datasets as if they were an Analysis-Read Cloud-Optimized (ARCO) format such as <code class="docutils literal notranslate"><span class="pre">Zarr</span></code>.</p>
 </div>
 <div class="section" id="about-the-dataset">
 <h2>About the Dataset<a class="headerlink" href="#about-the-dataset" title="Permalink to this headline"><i class="fas fa-link"></i></a></h2>
@@ -538,9 +531,9 @@ Later, when we use <code class="docutils literal notranslate"><span class="pre">
 </div>
 </div>
 </div>
-<div class="section" id="optional-speedup">
-<h3>Optional Speedup<a class="headerlink" href="#optional-speedup" title="Permalink to this headline"><i class="fas fa-link"></i></a></h3>
-<p>To speed next section up, uncomment the next cell.  This will reduce the # of input files and speed up the example considerably.</p>
+<p>Next, we generate a reference set for each of the input files. We save these to local JSON, although in principle we could have written them to some shared storege to share with others, or operated purely in memory.</p>
+<p><strong>Optional Speedup</strong>
+To speed next section up, uncomment the next cell.  This will reduce the number of input files and speed up the example considerably.</p>
 <div class="cell docutils container">
 <div class="cell_input docutils container">
 <div class="highlight-ipython3 notranslate"><div class="highlight"><pre><span></span><span class="c1"># file_pattern = file_pattern[0:10]</span>
@@ -571,7 +564,6 @@ Later, when we use <code class="docutils literal notranslate"><span class="pre">
 </div>
 </div>
 </div>
-</div>
 <div class="section" id="combine-json-kerchunk-reference-files-and-write-a-combined-kerchunk-index">
 <h2>Combine .json <code class="docutils literal notranslate"><span class="pre">Kerchunk</span></code> reference files and write a combined <code class="docutils literal notranslate"><span class="pre">Kerchunk</span></code> index<a class="headerlink" href="#combine-json-kerchunk-reference-files-and-write-a-combined-kerchunk-index" title="Permalink to this headline"><i class="fas fa-link"></i></a></h2>
 <p>In the following cell, we are combining all the <code class="docutils literal notranslate"><span class="pre">.json</span></code> reference files that were generated above into a single reference file and writing that file to disk.</p>
@@ -597,6 +589,7 @@ Later, when we use <code class="docutils literal notranslate"><span class="pre">
 </div>
 <div class="section" id="load-kerchunked-dataset">
 <h2>Load kerchunked dataset<a class="headerlink" href="#load-kerchunked-dataset" title="Permalink to this headline"><i class="fas fa-link"></i></a></h2>
+<p>Now the dataset is a logical view over all of the files we scanned.</p>
 <div class="cell docutils container">
 <div class="cell_input docutils container">
 <div class="highlight-ipython3 notranslate"><div class="highlight"><pre><span></span><span class="c1"># create an fsspec reference filesystem from the Kerchunk output</span>
@@ -652,7 +645,7 @@ Later, when we use <code class="docutils literal notranslate"><span class="pre">
             mode: "python"
         },
         kernelOptions: {
-            kernelName: "python3",
+            name: "python3",
             path: "./notebooks/case_studies"
         },
         predefinedOutput: true
@@ -722,7 +715,7 @@ Later, when we use <code class="docutils literal notranslate"><span class="pre">
         
           By the <a href="https://projectpythia.org/">Project Pythia</a> Community.
         
-          Last updated on 3 February 2023.
+          Last updated on 13 February 2023.
         </p>
       </div>
     </div>

diff --git a/notebooks/foundations/kerchunk_basics.html b/notebooks/foundations/kerchunk_basics.html
@@ -513,7 +513,7 @@ In this tutorial we will:</p>
 </div>
 </div>
 <div class="cell_output docutils container">
-<div class="output text_plain highlight-myst-ansi notranslate"><div class="highlight"><pre><span></span>&lt;matplotlib.collections.QuadMesh at 0x7f6eecb27250&gt;
+<div class="output text_plain highlight-myst-ansi notranslate"><div class="highlight"><pre><span></span>&lt;matplotlib.collections.QuadMesh at 0x7f922b6af3a0&gt;
 </pre></div>
 </div>
 <img alt="../../_images/kerchunk_basics_13_1.png" src="../../_images/kerchunk_basics_13_1.png" />
@@ -536,7 +536,7 @@ In this tutorial we will:</p>
             mode: "python"
         },
         kernelOptions: {
-            kernelName: "python3",
+            name: "python3",
             path: "./notebooks/foundations"
         },
         predefinedOutput: true
@@ -606,7 +606,7 @@ In this tutorial we will:</p>
         
           By the <a href="https://projectpythia.org/">Project Pythia</a> Community.
         
-          Last updated on 3 February 2023.
+          Last updated on 13 February 2023.
         </p>
       </div>
     </div>

diff --git a/README.html b/README.html
@@ -518,7 +518,7 @@ jupyter<span class="w"> </span>lab
             mode: "python"
         },
         kernelOptions: {
-            kernelName: "python3",
+            name: "python3",
             path: "./."
         },
         predefinedOutput: true
@@ -581,7 +581,7 @@ jupyter<span class="w"> </span>lab
         
           By the <a href="https://projectpythia.org/">Project Pythia</a> Community.
         
-          Last updated on 3 February 2023.
+          Last updated on 13 February 2023.
         </p>
       </div>
     </div>

diff --git a/notebooks/foundations/kerchunk_multi_file.html b/notebooks/foundations/kerchunk_multi_file.html
@@ -752,7 +752,7 @@ This function:</p>
             mode: "python"
         },
         kernelOptions: {
-            kernelName: "python3",
+            name: "python3",
             path: "./notebooks/foundations"
         },
         predefinedOutput: true
@@ -822,7 +822,7 @@ This function:</p>
         
           By the <a href="https://projectpythia.org/">Project Pythia</a> Community.
         
-          Last updated on 3 February 2023.
+          Last updated on 13 February 2023.
         </p>
       </div>
     </div>

diff --git a/genindex.html b/genindex.html
@@ -343,7 +343,7 @@ All code in Pythia Cookbooks is licensed under Apache 2.0. All other non-code co
         
           By the <a href="https://projectpythia.org/">Project Pythia</a> Community.
         
-          Last updated on 3 February 2023.
+          Last updated on 13 February 2023.
         </p>
       </div>
     </div>

diff --git a/search.html b/search.html
@@ -372,7 +372,7 @@ All code in Pythia Cookbooks is licensed under Apache 2.0. All other non-code co
         
           By the <a href="https://projectpythia.org/">Project Pythia</a> Community.
         
-          Last updated on 3 February 2023.
+          Last updated on 13 February 2023.
         </p>
       </div>
     </div>
